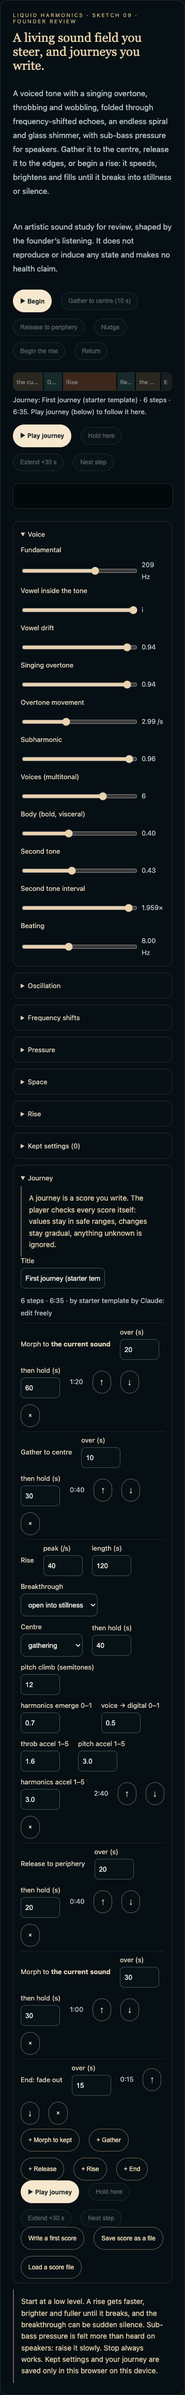
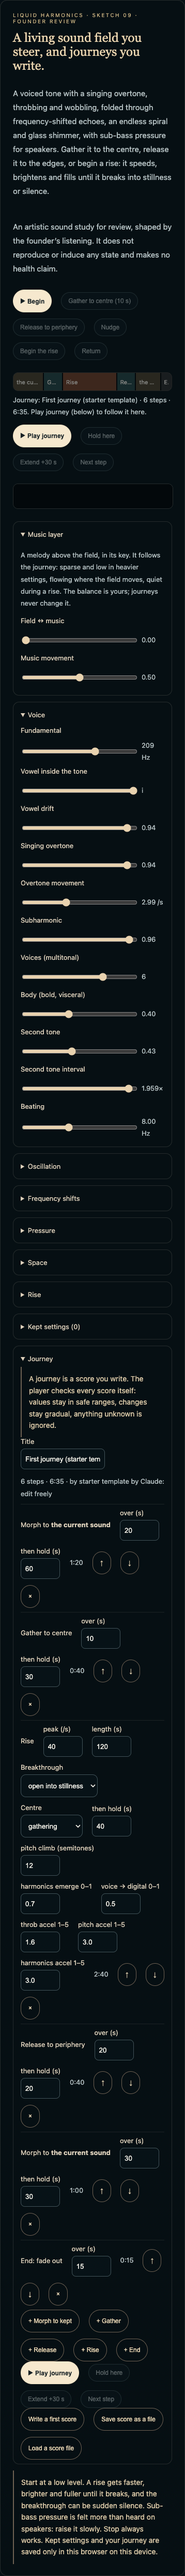
LISTEN-01: Liquid Harmonics music layer prototype (review-only)
Founder: 'Yes, prototype it' (a human-level melodic overlay on the field).
- Synthesized in-key melody (major pentatonic on the field's fundamental), its
  own echo/hall, through the same presence, limiter and fades as the field.
- Listener-owned 'Field <-> music' balance (default 0) and movement; journey
  morphs never carry these keys.
- Follows the field: density from motion, register from glass/sub, pan from
  rotation; ducked and sparser in a rise; silent in a silence breakthrough.
- Unit 8/8, witness 11/11, typecheck gate clean. Felt balance not witnessed.
Review branch only: no merge, deploy, flag or member-access change.

diff --git a/lib/listening/liquidHarmonics.ts b/lib/listening/liquidHarmonics.ts
@@ -10,7 +10,7 @@
 import type { ProceduralStudy, ProceduralStudyAPI, ProceduralStudyHandle } from './proceduralStudy';
 
 // ── Controls ──────────────────────────────────────────────────────────────────────────────────────────
-export type Group = 'Voice' | 'Oscillation' | 'Frequency shifts' | 'Rise' | 'Pressure' | 'Space';
+export type Group = 'Voice' | 'Oscillation' | 'Frequency shifts' | 'Rise' | 'Pressure' | 'Space' | 'Music';
 export type Control = {
   g: Group; k: string; label: string; v: number | string;
   min?: number; max?: number; step?: number; log?: boolean; unit?: string; hint?: string;
@@ -57,6 +57,8 @@ export const CONTROLS: readonly Control[] = Object.freeze([
   { g: 'Space', k: 'rotate', label: 'Rotation around you', min: 0, max: 1.5, v: 0.26, unit: 'Hz' },
   { g: 'Space', k: 'verb', label: 'Space', min: 0, max: 1.3, v: 0.94 },
   { g: 'Space', k: 'center', label: 'Periphery → centre', min: 0, max: 1, v: 0.34, hint: '0: all around you. 1: gathered to one point. Or use Gather / Release.' },
+  { g: 'Music', k: 'music', label: 'Field ↔ music', min: 0, max: 1, v: 0, hint: '0: the field alone. 0.5: both in full. 1: the music alone. The music stays in the key of the field and follows the journey; this balance is yours and journeys never change it.' },
+  { g: 'Music', k: 'musicMove', label: 'Music movement', min: 0, max: 1, v: 0.5, hint: 'Sparse single notes ↔ flowing phrases.' },
   { g: 'Space', k: 'glass', label: 'Glass shimmer', min: 0, max: 1.5, v: 0.96, hint: 'High crystalline partials.' },
 ] as Control[]);
 
@@ -97,15 +99,50 @@ export function vowelAt(x: number): number[] {
 }
 const clampN = (v: unknown, lo: number, hi: number, d: number) => { const n = Number(v); return Number.isFinite(n) ? Math.min(hi, Math.max(lo, n)) : d; };
 
-/** Every known control, clamped to its range; unknown keys dropped. `withRise` keeps the free-rise controls. */
+/** Every known control, clamped to its range; unknown keys dropped. `withRise` keeps the free-rise and the listener's own
+ * music-balance controls; without it (a journey morph) those are dropped, so a score never moves the listener's balance. */
 export function cleanParams(src: unknown, withRise = false): Params {
   const s = (src && typeof src === 'object' ? src : {}) as Record<string, unknown>, out: Params = {};
   for (const c of CONTROLS) {
-    if ((!withRise && c.g === 'Rise') || !(c.k in s)) continue;
+    if ((!withRise && (c.g === 'Rise' || c.g === 'Music')) || !(c.k in s)) continue;
     if (c.options) { if (c.options.includes(String(s[c.k]))) out[c.k] = String(s[c.k]); }
     else out[c.k] = clampN(s[c.k], c.min!, c.max!, c.v as number);
   }
   return out;
+}
+
+// ── Music layer (pure, tested): a melody in the key of the field ──
+// The root is the field's fundamental snapped to the nearest semitone and placed in 220–440 Hz; the melody uses the
+// major pentatonic on that root, so every note is consonant with the drone beneath it.
+export const PENTATONIC = Object.freeze([0, 2, 4, 7, 9]);
+const NOTE_NAMES = ['C', 'C♯', 'D', 'E♭', 'E', 'F', 'F♯', 'G', 'A♭', 'A', 'B♭', 'B'];
+export function musicRoot(f0: number): number {
+  const m = Math.round(69 + 12 * Math.log2(Math.max(20, f0) / 440));
+  let r = 440 * Math.pow(2, (m - 69) / 12);
+  while (r < 220 - 1e-9) r *= 2; while (r >= 440 - 1e-9) r /= 2;
+  return r;
+}
+export const musicKeyName = (f0: number) => NOTE_NAMES[((Math.round(69 + 12 * Math.log2(Math.max(20, f0) / 440)) % 12) + 12) % 12];
+/** Scale degree → Hz. Degree 0 is the root; 5 is an octave up; −1 is the sixth below. */
+export function musicNote(root: number, degree: number): number {
+  const o = Math.floor(degree / 5), i = degree - o * 5;
+  return root * Math.pow(2, o + PENTATONIC[i] / 12);
+}
+export const MUSIC_DEGREES = Object.freeze({ lo: -2, hi: 9 });
+/** The next degree: steps when the music is calm, leaps when it moves, drawn back toward a centre set by brightness. */
+export function nextDegree(prev: number, move: number, centre: number, rnd: () => number): number {
+  const maxStep = 1 + Math.round(Math.min(1, Math.max(0, move)) * 2);
+  const size = 1 + Math.floor(rnd() * maxStep);
+  const up = rnd() < 0.5 + Math.max(-0.35, Math.min(0.35, (centre - prev) * 0.12));
+  const step = rnd() < 0.15 ? 0 : up ? size : -size;
+  return Math.max(MUSIC_DEGREES.lo, Math.min(MUSIC_DEGREES.hi, prev + step));
+}
+/** Notes per second: the listener's movement setting, the field's own motion, and the journey phase (quiet in a rise). */
+export function musicDensity(P: Params, phase: string): number {
+  const n = (k: string) => Number(P[k]);
+  const motion = Math.min(1, n('vowelMove') * 0.6 + n('rotate') * 2 + n('swirl') * 0.2);
+  const base = (0.25 + 1.25 * n('musicMove')) * (0.6 + 0.6 * motion);
+  return base * (phase === 'rising' ? 0.35 : phase === 'after' ? 0.5 : 1);
 }
 
 export type MorphStep = { type: 'morph'; name: string; params: Params; seconds: number; hold: number };
@@ -183,6 +220,7 @@ export type Phase = 'free' | 'journey' | 'rising' | 'after' | 'returning';
 export type LiquidView = {
   phase: Phase; note: string; centreNote: string;
   journey: { i: number; n: number; type: string; elapsed: number; stepElapsed: number; total: number; held: boolean; ending: boolean } | null;
+  music: { on: boolean; key: string; notes: number; last: number };
 };
 export type LiquidEngine = ProceduralStudyHandle & {
   params: Params;
@@ -198,6 +236,10 @@ export type LiquidEngine = ProceduralStudyHandle & {
 
 // The study's own output trim, before the player's shared level (as for Orbit & Threshold).
 export const LIQUID_OUTPUT_TRIM = 0.5;
+// The music bus at full balance, under the same presence, limiter and trim as the field.
+export const MUSIC_LEVEL = 0.9;
+// Make-up gain for the sparse notes (measured 22 Nov: without it the music alone sat ~25 dB under the field).
+const MUSIC_GAIN = 7;
 const STACK = [1.189, 1.5, 1.782, 2.245, 2.997, 3.564, 4.49];
 const HA = [0.6923878, 0.9360654322959, 0.9882295226860, 0.9987488452737], HB = [0.4021921162426, 0.8561710882420, 0.9722909545651, 0.9952884791278];
 const RETURN_KEYS = ['rate', 'depth', 'body', 'voices', 'center', 'wobble', 'spiralSpeed', 'shift', 'verb', 'rotate', 'f0', 'overtone', 'otMove', 'glass', 'vowel'];
@@ -276,16 +318,23 @@ export function createLiquidEngine(ctx: AudioContext, destination: AudioNode, pa
   const flFb = gain(0); mix.connect(fl); fl.connect(flFb); flFb.connect(fl); const flWet = gain(0); fl.connect(flWet); flWet.connect(post);
   // Rotation around the listener, then space
   const pan = keep(ctx.createStereoPanner()), rot = osc(num('rotate')), rotD = gain(0.85); rot.connect(rotD); rotD.connect(pan.pan); post.connect(pan);
-  pan.connect(presence);
+  // The field and the music each have a bus into presence, so silence, fades and the limiter govern both.
+  const fieldBus = gain(1), musicBus = gain(0), musicDuck = gain(1), musicIn = gain(MUSIC_GAIN);
+  fieldBus.connect(presence); musicIn.connect(musicDuck); musicDuck.connect(musicBus); musicBus.connect(presence);
+  pan.connect(fieldBus);
   // Sub-bass pressure: mono, centred, straight to presence (the limiter still guards it).
   const pO = osc(num('pressF')), pAm = gain(0.5), pL = osc(num('pressRate')), pLd = gain(0.5); pL.connect(pLd); pLd.connect(pAm.gain);
-  const pG = gain(0), pHp = biquad('highpass', 20); pO.connect(pAm); pAm.connect(pHp); pHp.connect(pG); pG.connect(presence);
+  const pG = gain(0), pHp = biquad('highpass', 20); pO.connect(pAm); pAm.connect(pHp); pHp.connect(pG); pG.connect(fieldBus);
   // Binaural core goes straight to presence so it stays centred.
   const binL = osc(f0 * 2), binR = osc(f0 * 2 + 7), mg = keep(ctx.createChannelMerger(2)); binL.connect(mg, 0, 0); binR.connect(mg, 0, 1);
-  const binG = gain(0); mg.connect(binG); binG.connect(presence);
+  const binG = gain(0); mg.connect(binG); binG.connect(fieldBus);
   const sr = ctx.sampleRate, len = Math.floor(sr * 3.2), ir = ctx.createBuffer(2, len, sr);
   for (let ch = 0; ch < 2; ch++) { const d = ir.getChannelData(ch); for (let i = 0; i < len; i++) d[i] = (Math.random() * 2 - 1) * Math.pow(1 - i / len, 2.5) * 0.5; }
-  const cv = keep(ctx.createConvolver()); cv.buffer = ir; const verb = gain(0); pan.connect(verb); verb.connect(cv); cv.connect(presence);
+  const cv = keep(ctx.createConvolver()); cv.buffer = ir; const verb = gain(0); pan.connect(verb); verb.connect(cv); cv.connect(fieldBus);
+  // The music's own space: a soft echo and the same hall, so it sits in the room with the field.
+  const mDl = keep(ctx.createDelay(1)); mDl.delayTime.value = 0.37; const mFb = gain(0.32), mLp = biquad('lowpass', 2600), mEcho = gain(0.35);
+  musicIn.connect(mDl); mDl.connect(mLp); mLp.connect(mFb); mFb.connect(mDl); mLp.connect(mEcho); mEcho.connect(musicDuck);
+  const mCv = keep(ctx.createConvolver()); mCv.buffer = ir; const mVerb = gain(0.45); musicIn.connect(mVerb); mVerb.connect(mCv); mCv.connect(musicDuck);
 
   const apply = (now = false) => {
     const t = ctx.currentTime, k = now ? 0.01 : 0.08, set = (param: AudioParam, v: number) => param.setTargetAtTime(v, t, k);
@@ -305,6 +354,7 @@ export function createLiquidEngine(ctx: AudioContext, destination: AudioNode, pa
     set(binL.frequency, F * 2); set(binR.frequency, F * 2 + Math.min(45, rate)); set(binG.gain, num('binaural') * 0.12 * (0.6 + 0.4 * center));
     set(spG.gain, num('spiral'));
     set(pO.frequency, num('pressF')); set(pL.frequency, num('pressRate') + (rate - num('pressRate')) * num('pressLink')); set(pG.gain, num('press') * 0.6);
+    const bal = num('music'); set(fieldBus.gain, Math.min(1, 2 * (1 - bal))); set(musicBus.gain, Math.min(1, 2 * bal) * MUSIC_LEVEL);
     if (now) form.forEach((b, j) => b.frequency.setValueAtTime(vowelAt(num('vowel'))[j], t));
   };
 
@@ -372,6 +422,35 @@ export function createLiquidEngine(ctx: AudioContext, destination: AudioNode, pa
     }
   };
 
+  // ── Music layer: soft bell-like notes scheduled a little ahead, in the key of the field ──
+  let mNext = 0, mDeg = 2, mLeft = 0, mSide = 1, mNotes = 0, mLast = 0;
+  const playNote = (hz: number, when: number, dur: number, vel: number, panv: number, bright: number) => {
+    const g = ctx.createGain(), p = ctx.createStereoPanner(), a = ctx.createOscillator(), b = ctx.createOscillator(), bg = ctx.createGain();
+    a.type = 'sine'; b.type = 'triangle'; a.frequency.value = hz; b.frequency.value = hz * 2; bg.gain.value = 0.12 + 0.35 * bright;
+    g.gain.setValueAtTime(0, when); g.gain.linearRampToValueAtTime(vel, when + 0.015); g.gain.exponentialRampToValueAtTime(0.0001, when + dur);
+    p.pan.value = panv; a.connect(g); b.connect(bg); bg.connect(g); g.connect(p); p.connect(musicIn);
+    a.start(when); b.start(when); a.stop(when + dur + 0.05); b.stop(when + dur + 0.05);
+    b.onended = () => { try { p.disconnect(); } catch { /* gone */ } };
+  };
+  const musicTick = (t: number) => {
+    musicDuck.gain.setTargetAtTime(phase === 'rising' ? 0.35 : 1, t, 1.5);
+    if (num('music') < 0.01 || silenced) { mNext = 0; return; }
+    if (mNext < t) mNext = t + 0.2;
+    while (mNext < t + 0.3) {
+      const d = musicDensity(P, phase), root = musicRoot(num('f0'));
+      if (mLeft <= 0) { mLeft = 3 + Math.floor(Math.random() * 5); mNext += mNotes ? 0.8 + Math.random() * 2.2 / Math.max(0.3, d) : 0; mDeg = Math.max(0, Math.min(4, mDeg)); }
+      const centre = 2 + Math.round(num('glass') * 2) - Math.round(num('sub') * 2);
+      mDeg = nextDegree(mDeg, Math.min(1, num('vowelMove') * 0.5 + num('musicMove') * 0.7), centre, Math.random);
+      const low = num('sub') > 0.5 && mLeft === 1 && Math.random() < 0.35;
+      const hz = low ? root / 2 : musicNote(root, mDeg);
+      const dur = Math.min(5, Math.max(1.2, 2.2 / d));
+      const spread = Math.min(0.8, 0.15 + num('rotate') * 3); mSide = -mSide;
+      playNote(hz, mNext, dur, low ? 0.22 : 0.16 + Math.random() * 0.06, mSide * spread * (0.5 + Math.random() * 0.5), Math.min(1, num('glass') / 1.5));
+      mNotes++; mLast = hz; mLeft--;
+      mNext += (1 / d) * (0.75 + Math.random() * 0.5);
+    }
+  };
+
   const TICK_MS = 100;
   const interval = setInterval(() => {
     if (disposed || ctx.state !== 'running') return;
@@ -381,6 +460,7 @@ export function createLiquidEngine(ctx: AudioContext, destination: AudioNode, pa
       if (J.held) { if (tween) tween.t0 += dt; if (J.waitUntil !== null) J.waitUntil += dt; J.t0 += dt; J.s0 += dt; }
     }
     stepTween(t);
+    musicTick(t);
     if (J && !J.held && J.waitUntil !== null && t >= J.waitUntil) {
       J.waitUntil = null;
       if (J.next === 'stop') { J = null; phase = 'free'; note = 'Journey complete.'; api.ended('Liquid Harmonics: journey complete.'); return; }
@@ -461,7 +541,7 @@ export function createLiquidEngine(ctx: AudioContext, destination: AudioNode, pa
         const total = J.steps.reduce((a, st) => a + stepSeconds(st), 0);
         journey = { i: J.i, n: J.steps.length, type: J.steps[J.i]?.type ?? '', elapsed: Math.min(total, Math.max(0, ctx.currentTime - J.t0)), stepElapsed: Math.max(0, ctx.currentTime - J.s0), total, held: J.held, ending: J.ending };
       }
-      return { phase, note, centreNote, journey };
+      return { phase, note, centreNote, journey, music: { on: num('music') >= 0.01, key: musicKeyName(num('f0')), notes: mNotes, last: mLast } };
     },
     energy: () => { const b = new Uint8Array(analyser.frequencyBinCount); analyser.getByteFrequencyData(b); return b.reduce((a, x) => a + x, 0); },
     dispose: () => {

diff --git a/app/listen/LiquidHarmonicsDesk.tsx b/app/listen/LiquidHarmonicsDesk.tsx
@@ -22,7 +22,7 @@ const store = (k: string, v: unknown) => { try { localStorage.setItem(k, JSON.st
 // The engine keeps running in the player when the member moves to another view, so the desk re-attaches to it.
 const shared: { engine: LiquidEngine | null; params: Params; loaded: boolean } = { engine: null, params: { ...DEFAULT_PARAMS }, loaded: false };
 
-const GROUPS = ['Voice', 'Oscillation', 'Frequency shifts', 'Pressure', 'Space', 'Rise'] as const;
+const GROUPS = ['Music', 'Voice', 'Oscillation', 'Frequency shifts', 'Pressure', 'Space', 'Rise'] as const;
 const mmss = (x: number) => `${Math.floor(x / 60)}:${String(Math.floor(x % 60)).padStart(2, '0')}`;
 const stepLabel = (st: Step) => st.type === 'morph' ? st.name : st.type === 'end' ? 'End' : st.type[0].toUpperCase() + st.type.slice(1);
 
@@ -117,7 +117,7 @@ export default function LiquidHarmonicsDesk() {
       const t = track.current, jv = v?.journey;
       if (!jv) { if (t.i !== -1) track.current = newTrack(); }
       else { if (jv.i !== t.i) { if (t.i >= 0) t.done[t.i] = t.last; t.i = jv.i; } t.last = jv.stepElapsed; }
-      const key = v ? `${v.phase}|${v.note}|${v.centreNote}|${v.journey ? `${v.journey.i}|${Math.floor(v.journey.elapsed)}|${v.journey.held}` : ''}` : '';
+      const key = v ? `${v.phase}|${v.note}|${v.centreNote}|${v.journey ? `${v.journey.i}|${Math.floor(v.journey.elapsed)}|${v.journey.held}` : ''}|${v.music.on}|${v.music.key}` : '';
       if (key !== last) { last = key; setView(v); }
       // While a tween moves the sliders, redraw them a few times a second.
       if (e && v && v.phase !== 'free' && now - lastSync > 250) { lastSync = now; setTick(n => n + 1); store(KEYS.last, shared.params); }
@@ -249,8 +249,12 @@ export default function LiquidHarmonicsDesk() {
       <canvas ref={canvas} width={720} height={110} className={styles.liquidSpectrum} aria-label="Spectrum of the sound, low to high" />
 
       {GROUPS.map(g => (
-        <details className={styles.orbitDetails} key={g} open={g === 'Voice'}>
-          <summary>{g}</summary>
+        <details className={styles.orbitDetails} key={g} open={g === 'Voice' || g === 'Music'} data-liquid-group={g}>
+          <summary>{g === 'Music' ? 'Music layer' : g}</summary>
+          {g === 'Music' && <p className={styles.muted} data-liquid-music-note="true">
+            A melody above the field, in its key{view?.music.on ? ` (now ${view.music.key})` : ''}. It follows the journey: sparse and low in heavier
+            settings, flowing where the field moves, quiet during a rise. The balance is yours; journeys never change it.
+          </p>}
           {CONTROLS.filter(c => c.g === g).map(slider)}
         </details>
       ))}

diff --git a/docs/design/contracts/sound-studio-liquid-harmonics.md b/docs/design/contracts/sound-studio-liquid-harmonics.md
@@ -17,7 +17,7 @@ reference_surfaces:
   - docs/design/contracts/sound-studio-orbit-threshold.md — the neighbouring Lab study and the procedural-study path it introduced
   - docs/design/contracts/sound-studio-tone-lab.md — the Lab's honesty about claims
 shared_with_house: the same deep contained field, editorial serif headings, restrained gold signal and plain language; the same persistent player bar carries the sound, its Level, Pause and Stop
-distinct_to_room: an instrument rather than a piece. Thirty-six controls in six groups, a live spectrum in the house gold, and a journey written as a plain list of steps the listener can read, edit, save and load
+distinct_to_room: an instrument rather than a piece. Thirty-six field controls in six groups, plus a two-control music layer the listener balances, a live spectrum in the house gold, and a journey written as a plain list of steps the listener can read, edit, save and load
 screenshot_desktop:
   - docs/design/contracts/screenshots/sound-studio-liquid-harmonics-desktop.png
 screenshot_mobile:
@@ -39,6 +39,13 @@ experience_verification: >
   playhead only moves forward (0.11 → 0.86 of the journey); and the line names the step ("Step 2 of 4 · Rise · … · rising",
   then "Step 3 of 4 · Gather"). There is still no overflow at 390 px. The controls under the timeline start the journey; both Play
   buttons lock while it plays; Hold works during a morph and is locked during the rise, top and bottom. Logic witness only.
+  2026-11-22 music layer (founder: "Yes, prototype it"):
+  - Witness 11/11: off by default; music alone is heard; the desk names the key; with the music at 0.5, the
+    breakthrough still measures energy 0; a journey leaves the listener's balance at 0.50.
+  - Unit tests 8/8: every reachable note is a major-pentatonic degree of the field's own fundamental; journey morphs
+    drop the music keys; it is sparser in a rise.
+  - Loudness, measured on the study analyser at founder defaults: field alone about −6 dB RMS; music alone about
+    −16 dB RMS, with peaks about −2 dB (after a +17 dB make-up). The felt balance is not witnessed.
 ---
 
 # Sound Studio / Liquid Harmonics — Experience Contract
@@ -70,6 +77,19 @@ A timeline sits under Begin and Play. It has one band per step, each as wide as 
 
 The band itself is not a control. Right under it are the four journey controls: Play journey, Hold here, Extend +30 s and Next step. They are the same controls as at the foot of the Journey panel, so a journey can be followed and steered without scrolling. While a journey plays, both Play buttons read "Journey playing" and are visibly greyed; during a rise, Hold, Extend and Next are greyed in both places. The playhead's motion respects reduced-motion settings.
 
+## Music layer
+
+A melody above the field, so attention has something human to rest on while the field carries the body. Both layers are always audible and the listener sets the balance (Field ↔ music: 0 the field alone, 0.5 both in full, 1 the music alone). It is off until the listener raises it, and **journeys never change it**.
+- **In key.** The root is the field's fundamental, snapped to the nearest semitone, so every note is a major-pentatonic degree consonant with the drone.
+- **It follows the journey:**
+  - sparse and lower where the field is heavy (more sub, less glass);
+  - flowing where the field moves (vowel drift, rotation, swirl);
+  - spread left and right with the rotation;
+  - ducked and sparser during a rise;
+  - silent in a silence breakthrough, because it runs through the same presence, limiter and fades.
+- **It is synthesized**: soft sine-and-triangle bells with their own echo and hall. There are no recordings and no second player.
+- **No claim** is made that the layering does anything. It is offered as music.
+
 ## Safety
 
 - Member-initiated only. Arriving plays nothing; changing a setting or loading a score starts nothing.
@@ -83,4 +103,4 @@ Any claim that the sound produces, imitates or induces a state, a realm, an enti
 
 ## Not in this change
 
-No member access: the review flag and the named-member list are untouched. No recorded media (Study 01/02 audio stays outside). No AI composition, no Hugging Face generation. No server storage of settings or scores. No cymatic, somatic or physiological capture. No screen-lock keep-alive for iPhone. No analytics.
+No member access: the review flag and the named-member list are untouched. No recorded media (Study 01/02 audio and the founder's HUSO reference files stay outside). No AI composition, no Hugging Face generation. No server storage of settings or scores. No cymatic, somatic or physiological capture. No screen-lock keep-alive for iPhone. No analytics.
